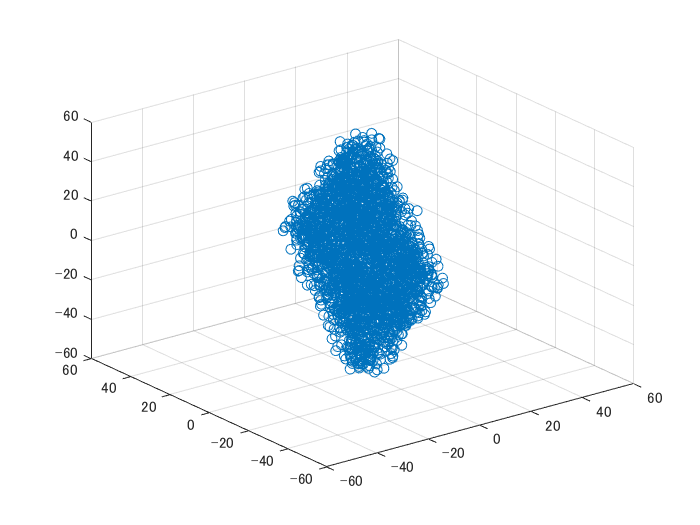
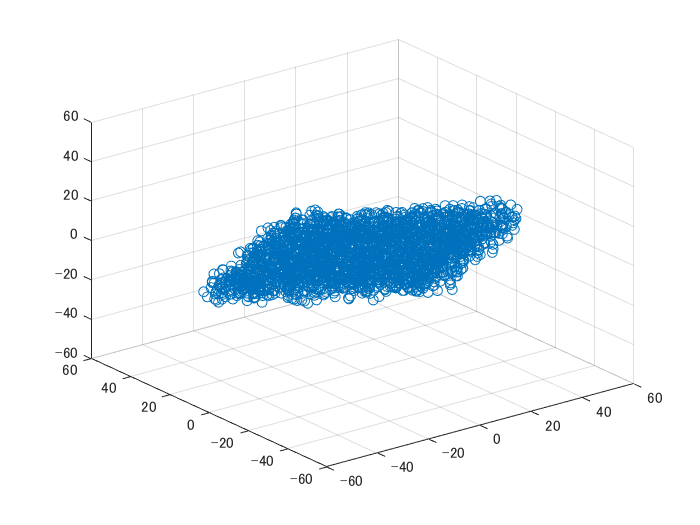
readmeを追加

Changed region(s): [[0.27, 0.2438, 0.75, 0.7314]]

diff --git a/README.md b/README.md
@@ -1,5 +1,4 @@
 # 主成分分析 (Principal Component Analysis: PCA)を簡単に、かつわかりやすく説明したい
-# **（ただいま執筆中で後半が書いている途中です。MATLABコードとPYTHONコードはまだアップロードしていません）**
 # 0. はじめに
 
    -  この記事では、簡単に、かつわかりやすく、主成分分析や統計に関して初心者の方でも直感的に、かつある程度数式も合わせて理解できるようになることを目指しています。 
@@ -100,7 +99,7 @@
 
 といったことでした。この節では、主成分分析に関わる用語も混ぜていきたいと思います。
 
-上の図では、PC1やPC2という、x軸・y軸に相当するものが示されていました。これをそれぞれ**第一（第二）主成分**（またはその軸のことを主成分軸）といいます。多次元の情報（ここでいう、10種類以上の栄養成分）をもつサンプル（フルーツ）を2次元にプロット（射像）したときの値です。
+上の図では、PC1やPC2という、x軸・y軸に相当するものが示されていました。これをそれぞれ**第一（第二）主成分**（またはその軸のことを主成分軸）といいます。多次元の情報（ここでいう、10種類以上の栄養成分）をもつサンプル（フルーツ）を2次元にプロット（写像）したときの値です。
 
 　では、その第一主成分や第二主成分の値は何を持って決めるのでしょうか。そこで用いるのが、赤で示されたような、大きさと方向をもつ量（**ベクトル**）です。例えば、鉄分に対応するベクトルはPC1においては、正の値を有し、PC2（縦方向）においては、値は0に近い値を有しています。このベクトルのことを**固有ベクトル**といいます。鉄分の場合、PC1に対しては大きな値をPC2に対しては小さい値を持ちます。以下の図は、各栄養成分に対する固有ベクトルを示しています。先述したように、鉄では、PC1に関しては、比較的大きい値を有している一方で、PC2に関する値は非常に小さいことがわかります。
 
@@ -175,15 +174,15 @@
 
 分散について、分解して考えてみます。
 
-[1] <img src="https://latex.codecogs.com/gif.latex?\inline&space;x_i&space;-\bar{x}"/>について
+1) <img src="https://latex.codecogs.com/gif.latex?\inline&space;x_i&space;-\bar{x}"/>について
 
 <img src="https://latex.codecogs.com/gif.latex?\inline&space;x_i"/>はi番目のサンプル（ここでは、レモン、グレープフルーツ、みかん、ゆず、柿）に対して計算を行っていることを示します。例えば、甘さの分散を調べるとき、i番目のサンプルがレモンだったとすると、レモンの甘さの値（厳密には糖度ですがここでは甘さの値とします）のことです。<img src="https://latex.codecogs.com/gif.latex?\inline&space;\bar{x}"/>とはサンプル全体（ここでは、５つのフルーツの甘さ）の平均です。それで引き算を行うことで、i番目のサンプルの甘さがサンプル全体の平均と比べて、甘いのか（プラス）、甘くないのか（マイナス）を計算できます。
 
-[2] 2乗について
+2) 2乗について
 
 次は1)で計算した値を2乗します。ここでは散らばり具合を計算したいので、平均からみて、大きい値や小さい値が観測されるかどうかが重要です。散らばり具合においては、その平均からの差がどれくらいあるか知りたいです。単純にその差を足し算していくと、プラスとマイナスの要素が打ち消されて、0（＝散らばっていない）に近い、誤った計算結果になります。ここで2乗の計算をすることで、その符号の違いによる打ち消しを避けることができます。
 
-[3] Σについて
+3) Σについて
 
 1)や2)の計算は、i番目のサンプルに対する計算でした、全てのサンプル（ここでは5つのフルーツ）に対して計算を行い、その平均からの差の2乗の値を足し合わせたいので、Σによって、n個のサンプルにわたって足し算をしていくことを示しています。
 
@@ -324,7 +323,7 @@ ans = 110
 
 ## 4-2 写像後の座標を計算する
 
-　次は、多次元のデータを2次元などに射像するときの計算について述べます。写像に用いる固有ベクトルをaとします。これは2-5で示した表中の重みに等しいです。d次元まで存在すると以下のような式になります。主成分分析の表の見せ方によりますが、固有ベクトルの表の縦や横を<img src="https://latex.codecogs.com/gif.latex?\inline&space;a_1"/>などとして考えると良いです。
+　次は、多次元のデータを2次元などに写像するときの計算について述べます。写像に用いる固有ベクトルをaとします。これは2-5で示した表中の重みに等しいです。d次元まで存在すると以下のような式になります。主成分分析の表の見せ方によりますが、固有ベクトルの表の縦や横を<img src="https://latex.codecogs.com/gif.latex?\inline&space;a_1"/>などとして考えると良いです。
 
 <img src="https://latex.codecogs.com/gif.latex?a={\left(a_1&space;,a_2&space;,a_3&space;,\dots&space;a_d&space;\right)}^T"/>
 
@@ -350,7 +349,7 @@ ans = 110
 
 <img src="https://latex.codecogs.com/gif.latex?=~a^T&space;\frac{1}{N}{\left(\bar{X}&space;\right)}^T&space;\left(\bar{X}&space;a\right)"/>
 
-と書き換えることもできます。1/Nは単に数値なので順番を入れ替えることができます。これは1つ目の${\left(\bar{X} a\right)}^T$<img src="https://latex.codecogs.com/gif.latex?\inline&space;\bar{X}"/>の箇所に対して転置行列の性質を用いています。
+と書き換えることもできます。1/Nは単に数値なので順番を入れ替えることができます。これは1つ目の <img src="https://latex.codecogs.com/gif.latex?\inline&space;{\left(\bar{X}&space;a\right)}^T&space;\bar{X}"/> の箇所に対して転置行列の性質を用いています。
 
 転置行列の性質に関しては、以下の記事が参考になりました。
 
@@ -366,7 +365,7 @@ https://manabitimes.jp/math/1046
 
 3章で説明した通り、この分散が最大になっていれば嬉しい、ということでした。
 
-そのため、<img src="https://latex.codecogs.com/gif.latex?\inline&space;a^T&space;Var\left(\bar{X}&space;\right)a"/>を最大化する固有ベクトルaの値を求めたいと思います。
+そのため、<img src="https://latex.codecogs.com/gif.latex?\inline&space;a^T&space;Var\left(\bar{X}&space;\right)a"/> を最大化する固有ベクトルaの値を求めたいと思います。
 
 さらに、aには
 
@@ -440,7 +439,7 @@ https://ai-trend.jp/basic-study/linear-algebra/eigenvalue-and-eigenvector/
 
 ここまでの流れをまとめると
 
-   \item{ <img src="https://latex.codecogs.com/gif.latex?\inline&space;a^T&space;Var\left(\bar{X}&space;\right)a"/>の値を最大化したい }
+   \item{ 写像後の分散である、 <img src="https://latex.codecogs.com/gif.latex?\inline&space;a^T&space;Var\left(\bar{X}&space;\right)a"/> の値を最大化したい }
    -  <img src="https://latex.codecogs.com/gif.latex?\inline&space;a^T&space;a=1"/>という拘束条件がある 
    -  ラグランジュの未定乗数法で解くことができる 
    -  固有値を求める問題に帰着した 
@@ -450,7 +449,7 @@ https://ai-trend.jp/basic-study/linear-algebra/eigenvalue-and-eigenvector/
 
 <img src="https://latex.codecogs.com/gif.latex?Aa=\lambda&space;~a"/>
 
-を解けばよいというシンプルな問題に帰着しました。AはXから平均値を引いた行列の分散なので、データがあればすぐに求めることができます。あとは、シンプルな問題であれば手計算でも解けますし、プログラミング言語のパッケージを用いればすぐに固有値や固有ベクトルを求めることができます。この上の手順に従い、計算すれば、各主成分で分散が最大になるような固有ベクトルが得られて、それをもって任意の次元に写像できるはずです。次の章では、実際にコーディングもしながら確認していきたいと思います。
+を解けばよいというシンプルな問題に帰着しました。AはXから平均値を引いた行列の分散なので、データがあればすぐに求めることができます。あとは、シンプルな問題であれば手計算でも解けますし、プログラミング言語のパッケージを用いればすぐに固有値や固有ベクトルを求めることができます。この上の手順に従い、計算すれば、各主成分で分散が最大になるような固有ベクトルが得られて、それをもって任意の次元に写像できるはずです。また、この固有ベクトルがそれぞれの主成分軸の向きと一致します。次の章では、実際にコーディングもしながら確認していきたいと思います。
 
 # 5章：3次元のデータに対して主成分分析を行う例
 
@@ -506,16 +505,16 @@ X(1:10,:) % 先頭から10個だけデータを表示する
 
 ```text:Output
 ans = 10x3    
-  -21.3632  -21.0261   45.7552
-  -20.4525  -21.8759   50.5181
-  -28.2406  -22.3479   46.8377
-  -20.3767  -23.5957   47.6008
-  -23.1868  -18.5441   49.7322
-  -28.5350  -20.7677   42.1967
-  -26.7255  -17.9070   38.8308
-  -24.0416  -13.7052   44.9806
-  -19.9354  -13.1543   39.7202
-  -19.8615  -11.5958   40.9174
+  -21.7379  -21.4437   45.5980
+  -23.9124  -22.2096   48.6382
+  -29.2875  -23.2099   51.4588
+  -21.3041  -24.9932   50.8562
+  -21.2549  -19.2303   44.0883
+  -22.8871  -16.1058   48.5032
+  -28.8589  -22.3273   43.9654
+  -24.9624  -14.9185   40.4330
+  -26.4127  -19.2797   45.7350
+  -25.0727  -13.5144   39.5227
 
 ```
 
@@ -533,9 +532,9 @@ X_var=1/2500*(X')*X
 
 ```text:Output
 X_var = 3x3    
-  217.9409   -2.3762 -206.7548
-   -2.3762  213.7164 -206.4991
- -206.7548 -206.4991  424.5257
+  215.0796   -0.1363 -209.4993
+   -0.1363  217.4601 -209.1432
+ -209.4993 -209.1432  429.2478
 
 ```
 
@@ -569,9 +568,9 @@ X_eig=eig(X_var)
 
 ```text:Output
 X_eig = 3x1    
-    8.2880
-  218.2129
-  629.6821
+  637.3103
+  216.4115
+    8.0656
 
 ```
 
@@ -583,14 +582,14 @@ X_eig = 3x1
 
 ```text:Output
 V = 3x3    
-    0.5732    0.7102   -0.4086
-    0.5842   -0.7039   -0.4040
-    0.5746    0.0072    0.8184
+   -0.4058    0.7045   -0.5823
+   -0.4074   -0.7097   -0.5747
+    0.8181   -0.0040   -0.5750
 
 D = 3x3    
-    8.2880         0         0
-         0  218.2129         0
-         0         0  629.6821
+  637.3103         0         0
+         0  216.4115         0
+         0         0    8.0656
 
 ```
 
@@ -612,13 +611,14 @@ MATLABの`pca`という関数を用いれば、一行で主成分分析を行う
 [coeff2,score2,latent2,tsquared2,explained,mu]  = pca(X);
 figure;scatter3(score2(:,1),score2(:,2),score2(:,3))
 xlim([-60,60]);ylim([-60,60]);zlim([-60,60]);
+xlabel('x axis');ylabel('y axis');zlabel('z axis')
 ```
 
 ![figure_3.png](README_images/figure_3.png)
 
   
 
-このように、どちらの場合も同じ結果を得ることができました。
+このように、どちらの場合も同じ結果を得ることができました。また、第三主成分軸は値が約0.58のものが3つ続いています。もとの平面がx+y+z=1で、法線ベクトルが(1,1,1)だったので、その法線ベクトルの向きに第二主成分軸を取っていることが確認できますね。
 
 matlabの`pca`関数で求めた固有ベクトル
 
@@ -628,9 +628,9 @@ coeff2
 
 ```text:Output
 coeff2 = 3x3    
-   -0.4086    0.7102    0.5732
-   -0.4040   -0.7039    0.5842
-    0.8184    0.0072    0.5746
+   -0.4058   -0.7045    0.5823
+   -0.4074    0.7097    0.5747
+    0.8181    0.0040    0.5750
 
 ```
 
@@ -642,13 +642,13 @@ V
 
 ```text:Output
 V = 3x3    
-    0.5732    0.7102   -0.4086
-    0.5842   -0.7039   -0.4040
-    0.5746    0.0072    0.8184
+   -0.4058    0.7045   -0.5823
+   -0.4074   -0.7097   -0.5747
+    0.8181   -0.0040   -0.5750
 
 ```
 
-また、固有ベクトルを用いて、新たなPC1, PC2, PC3軸にプロットした時の値（主成分スコア）も一致していることがわかります（yとz成分の正負は逆転している）。初めから10個だけ取り出し、それを示します。
+また、固有ベクトルを用いて、新たなPC1, PC2, PC3軸にプロットした時の値（主成分スコア）も一致していることがわかります（ベクトルの向きは正負が逆になることがあります）。初めから10個だけ取り出し、それを示します。
 
 matlabの`pca`関数で求めた主成分スコア
 
@@ -658,16 +658,16 @@ score2(1:10,:)
 
 ```text:Output
 ans = 10x3    
-   54.6710   -0.0438    1.7598
-   58.5402    1.2352    4.5220
-   58.9014   -3.9900   -2.3328
-   56.8164    2.4789    1.8846
-   57.6685   -3.0577    4.4493
-   54.5850   -5.3447   -4.2451
-   49.9351   -6.0974   -3.4704
-   52.1742   -7.1051    4.0561
-   45.9685   -4.6142    3.7094
-   46.2885   -5.6503    5.3500
+   54.8629    0.2770    1.2378
+   58.5446    1.2775    1.2796
+   63.4410    4.3654   -0.8033
+   60.4349   -2.5266    2.4741
+   52.5300    1.5017    1.9231
+   55.5314    4.8868    5.3069
+   56.7769    4.6598   -4.3552
+   49.2873    7.1590    0.1403
+   55.9904    5.1066   -0.1618
+   48.0153    8.2296    0.3596
 
 ```
 
@@ -679,16 +679,16 @@ score(1:10,:)
 
 ```text:Output
 ans = 10x3    
-    1.7598   -0.0438   54.6710
-    4.5220    1.2352   58.5402
-   -2.3328   -3.9900   58.9014
-    1.8846    2.4789   56.8164
-    4.4493   -3.0577   57.6685
-   -4.2451   -5.3447   54.5850
-   -3.4704   -6.0974   49.9351
-    4.0561   -7.1051   52.1742
-    3.7094   -4.6142   45.9685
-    5.3500   -5.6503   46.2885
+   54.8629   -0.2770   -1.2378
+   58.5446   -1.2775   -1.2796
+   63.4410   -4.3654    0.8033
+   60.4349    2.5266   -2.4741
+   52.5300   -1.5017   -1.9231
+   55.5314   -4.8868   -5.3069
+   56.7769   -4.6598    4.3552
+   49.2873   -7.1590   -0.1403
+   55.9904   -5.1066    0.1618
+   48.0153   -8.2296   -0.3596
 
 ```
 
@@ -708,9 +708,9 @@ ans = 10x3
 ans = 3x3    
 1.0e+06 *
 
-    0.0207   -0.0000   -0.0000
-   -0.0000    0.5455   -0.0000
-   -0.0000   -0.0000    1.5742
+    1.5933   -0.0000   -0.0000
+   -0.0000    0.5410   -0.0000
+   -0.0000   -0.0000    0.0202
 
 ```
 
@@ -770,8 +770,8 @@ cumsum(explained)
 
 ```text:Output
 ans = 3x1    
-   73.5453
-   99.0320
+   73.9522
+   99.0641
   100.0000
 
 ```
@@ -813,10 +813,77 @@ ans = 3x1
   
 ## 7.2. 各主成分は直交するのか？
 
-主成分分析では、各入力の値を、主成分ベクトルとの掛け算で変換していました。分散が最大になるような軸をとって、変換していたので、ある軸を主成分に取ると、次に分散が最大になるのは、これまで取った軸では表せない軸、つまり、直交している軸を主成分として取ることがよさそうです。実際に各主成分は直交していて、例えば以下のように示せると思います。
+主成分分析では、各入力の値を、主成分ベクトルとの掛け算で変換していました。分散が最大になるような軸をとって、変換していたので、ある軸を主成分に取ると、次に分散が最大になるのは、これまで取った軸では表せない軸、つまり、直交している軸を主成分として取ることがよさそうです。実際に各主成分は直交しているのですが、そのことをこの節で示したいと思います。
+
+　これまで述べたように、主成分分析では以下の図のように、分散が最も大きくなる向きに第一主成分軸を取り、その次に大きい分散の取れる軸を第二主成分軸とします。直感的には、第一主成分軸では表現できない方向を第二主成分軸で表現しようとすると、より大きな分散を取ることができそうです。
+
+  
 
 ![image_25.png](README_images/image_25.png)
 
+画像出典：株式会社インテージさま：主成分分析とは
+
+[https://www.intage.co.jp/glossary/401/](https://www.intage.co.jp/glossary/401/)
+
+  
+
+ここでは、第一主成分軸と第二主成分軸が直交していることを示します。ただ、他の軸に対しても同様に説明できると思います。
+
+ここでは、2つの固有ベクトルが直交することを示します。2つの固有ベクトルをx, yとします。
+
+目標は、<img src="https://latex.codecogs.com/gif.latex?\inline&space;x^T&space;y=0"/>を示すことです。固有ベクトルx, yに対して以下の式が成り立ちます。
+
+<img src="https://latex.codecogs.com/gif.latex?\inline&space;\textrm{Ax}=\lambda_1&space;x"/> ...★
+
+<img src="https://latex.codecogs.com/gif.latex?\textrm{Ay}=\lambda_2&space;y"/>
+
+2つ目の式に対して、両辺の転置行列を考えます。
+
+<img src="https://latex.codecogs.com/gif.latex?{\left(\textrm{Ay}\right)}^T&space;=\lambda_2&space;y^T&space;\;"/>
+
+ここで、<img src="https://latex.codecogs.com/gif.latex?\inline&space;\lambda_2"/>に関しては、スカラーであるので、転置になっていません。
+
+また、<img src="https://latex.codecogs.com/gif.latex?\inline&space;{\left(\textrm{AB}\right)}^T&space;=B^T&space;A^T"/>という性質を用いて、
+
+<img src="https://latex.codecogs.com/gif.latex?y^T&space;A^T&space;=\lambda_2&space;y^T"/>
+
+になります。両辺を<img src="https://latex.codecogs.com/gif.latex?\inline&space;\lambda_2"/>で割ると
+
+<img src="https://latex.codecogs.com/gif.latex?y^T&space;=\frac{1}{\lambda_2&space;}y^T&space;A^T"/>
+
+になり、右から<img src="https://latex.codecogs.com/gif.latex?\inline&space;x"/>をかけます。
+
+<img src="https://latex.codecogs.com/gif.latex?y^T&space;x=\frac{1}{\lambda_2&space;}y^T&space;A^T&space;x"/>
+
+ここで、Aは共分散行列なので<img src="https://latex.codecogs.com/gif.latex?\inline&space;A^T&space;=A"/>です。そのため、
+
+<img src="https://latex.codecogs.com/gif.latex?=\frac{1}{\lambda_2&space;}y^T&space;Ax"/>
+
+となり、★式より、
+
+<img src="https://latex.codecogs.com/gif.latex?=\frac{1}{\lambda_2&space;}y^T&space;\lambda_1&space;x"/>
+
+となります。スカラーである<img src="https://latex.codecogs.com/gif.latex?\inline&space;\lambda_1"/>を前に出して、
+
+<img src="https://latex.codecogs.com/gif.latex?=\frac{\lambda_1&space;}{\lambda_2&space;}y^T&space;x"/>
+
+となります。
+
+これらにより、
+
+<img src="https://latex.codecogs.com/gif.latex?y^T&space;x=~\frac{\lambda_1&space;}{\lambda_2&space;}y^T&space;x"/>
+
+であり、式を整理して、
+
+<img src="https://latex.codecogs.com/gif.latex?(1-\frac{\lambda_1&space;}{\lambda_2&space;})y^T&space;x=0"/>
+
+を得ることができました。<img src="https://latex.codecogs.com/gif.latex?\inline&space;\lambda_1&space;\not=&space;\lambda_2"/>であるとき、
+
+<img src="https://latex.codecogs.com/gif.latex?\inline&space;y^T&space;x=0"/>　となります。
+
+これにより各固有ベクトルは直交することが示されました。
+
+  
 ## 7.3. 因子負荷量について
 
 　1章のように、多次元の情報を第一主成分、第二主成分により、2次元でプロットすることでかなり情報が見やすくなりました。しかし、その場合、第一主成分や第二主成分は、どのような要素（例：第一主成分は炭水化物や脂質で主に構成されている）で成り立っているのかを知ることが、2次元でのプロットの解釈において非常に重要です。1章のバイプロットでは、単に固有ベクトルを表示していました。バイプロットではその固有ベクトルを表示させたり、または、この因子負荷量をプロットします。MATLABの公式ドキュメントでも、筆者の確認する限り、因子負荷量自体は、直接的にpca関数では計算されず、固有ベクトルをもって、各成分の寄与度を出していたように思いました。
@@ -828,17 +895,35 @@ ans = 3x1
 引用：https://statistics.co.jp/reference/software_R/statR_9_principal.pdf
 
   
+## 7.4. データの標準化について
 
-データから平均を引くかどうかで結果が変わるか
+主成分分析のために、
 
-  
+1) 入力からその平均を引く
+
+2) 入力からその平均を引く、そして、標準偏差で割る
+
+といった前処理をします。主成分分析の記事では、2）の場合が多い印象がありますが、絶対に標準偏差で割る必要はないようです。
+
+非常にわかりやすい記事がありましたので、以下にURLを掲載いたします。https://qiita.com/koshian2/items/2e69cb4981ae8fbd3bda\#%E6%A8%99%E6%BA%96%E5%8C%96%E3%81%99%E3%82%8B%E3%83%87%E3%83%A1%E3%83%AA%E3%83%83%E3%83%88%E6%A8%99%E6%BA%96%E5%8C%96%E3%81%97%E3%81%AA%E3%81%84%E3%83%A1%E3%83%AA%E3%83%83%E3%83%88
+
+また、入力からその平均を引かない場合でも、固有値や固有ベクトルの値は変わりません。共分散行列を求める際に、どっちみちその平均で引き算をするためです。
+
   
 # 参考文献
+
+宮田先生 Rを用いた主成分分析
+
+http://www1.tcue.ac.jp/home1/ymiyatagbt/principal.pdf
+
+統計科学研究所
+
+https://statistics.co.jp/reference/software_R/statR_9_principal.pdf
 
 VIVINKO：主成分分析の基礎
 
 [https://vivinko.com/inoue/docs/datascience/pca](https://vivinko.com/inoue/docs/datascience/pca)
 
-データ分析入門 第10回 主成分分析：京都大学の資料
+關戸先生 データ分析入門 第10回 主成分分析
 
 [http://www-is.amp.i.kyoto-u.ac.jp/data/sekido/20161213.pdf](http://www-is.amp.i.kyoto-u.ac.jp/data/sekido/20161213.pdf)
